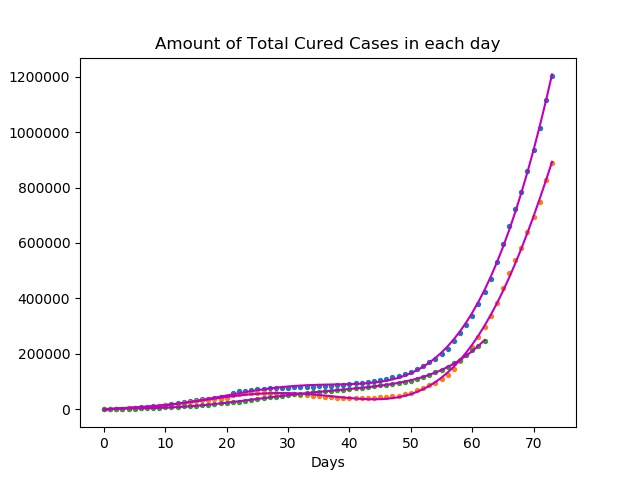
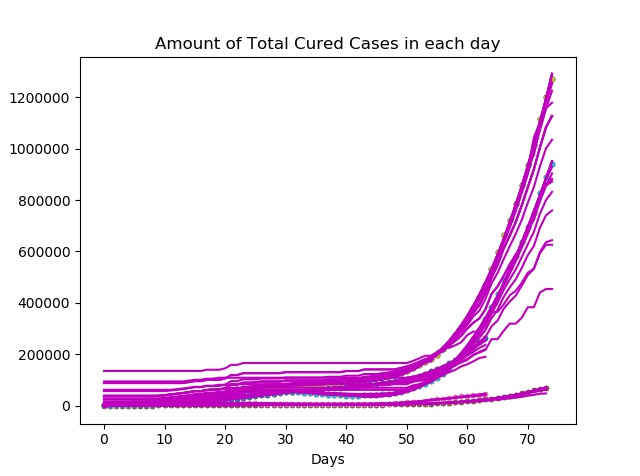
update 06/04/2020

diff --git a/main.py b/main.py
@@ -4,6 +4,10 @@ import numpy as np
 import matplotlib.pyplot as plt
 
 from sklearn.linear_model import Ridge
+from sklearn.ensemble import GradientBoostingRegressor
+from sklearn.ensemble import RandomForestRegressor
+from sklearn.linear_model import LinearRegression
+from sklearn.ensemble import VotingRegressor
 import time
 
 from sklearn.preprocessing import PolynomialFeatures
@@ -15,6 +19,12 @@ from data_scrapper.critical_case_data_scrapper import CriticalCasesDataScrapper
 from data_scrapper.cured_case_data_scrapper import CuredCasesDataScrapper
 from data_scrapper.data_scrapper import DataScrapper
 
+#reg1 = GradientBoostingRegressor(random_state=1, n_estimators=20)
+#reg2 = RandomForestRegressor(random_state=1, n_estimators=10)
+reg3 = LinearRegression()
+reg4 = Ridge()
+
+ereg = VotingRegressor([('lr', reg3), ('rg', reg4)])
 
 def training_set(datascrapper_class, scrap_data_from_server=True, offline_dataset_date=""):
     scrapper = globals()[datascrapper_class]()
@@ -34,7 +44,7 @@ def training_set(datascrapper_class, scrap_data_from_server=True, offline_datase
 def train_model(x, y, polynomial_degree):
     polynomial_features = PolynomialFeatures(degree=polynomial_degree)
     x_poly = polynomial_features.fit_transform(x)
-    model = Ridge()
+    model = ereg
     model.fit(x_poly, y)
 
     return model

diff --git a/README.md b/README.md
@@ -12,17 +12,17 @@ COVID-19, the disease that can result from the coronavirus worldwide new pandemi
 
 
 
-Our predictions for 05/04/2020: 
+Our predictions for 06/04/2020: 
 
-The predictions for Total Cases today is: 1309861
+The predictions for Total Cases today is: 1391952
 
-The predictions for Total Active Cases today is: 962878
+The predictions for Total Active Cases today is: 1018577
 
-The predictions for Total Cured Cases today is: 272048
+The predictions for Total Cured Cases today is: 291636
 
-The predictions for Total Deaths  today is: 72118
+The predictions for Total Deaths  today is: 78417
 
-The predictions for Total Critical Cases  today is: 47064
+The predictions for Total Critical Cases  today is: 49610
 
 
 
@@ -33,7 +33,8 @@ The predictions for Total Critical Cases  today is: 47064
 
 |    Date    | Predicted Total Cases | Real Total Cases | Predicted Total Recovered | Real Total Recovered | Predicted  Total Deaths | Real Total Deaths | Predicted Active Cases | Real Active Cases | Predicted  Critical Cases | Real Critical Cases |
 | :--------: | :-------------------: | :--------------: | :-----------------------: | :------------------: | :---------------------: | :---------------: | :--------------------: | :---------------: | :-----------------------: | :-----------------: |
-| 05/04/2020 |        1309861        |        ??        |          272048           |          ??          |          72118          |        ??         |         962878         |        ??         |           47064           |         ??          |
+| 06/04/2020 |        1391952        |        ??        |          291636           |          ??          |          78417          |        ??         |        1018577         |        ??         |           49610           |         ??          |
+| 05/04/2020 |        1309861        |     1272901      |          272048           |        264604        |          72118          |       69427       |         962878         |      938870       |           47064           |        45589        |
 | 04/04/2020 |        1215813        |     1201483      |          252278           |        246467        |          65527          |       64691       |         895783         |      890325       |           44888           |        42288        |
 | 03/04/2020 |        1119168        |     1116662      |          232645           |        228589        |          58910          |       59162       |         825982         |      828911       |           42957           |        39391        |
 | 02/04/2020 |        1037752        |     1015065      |          212690           |        212018        |          52830          |       53167       |         770824         |      749880       |           40369           |        37698        |
